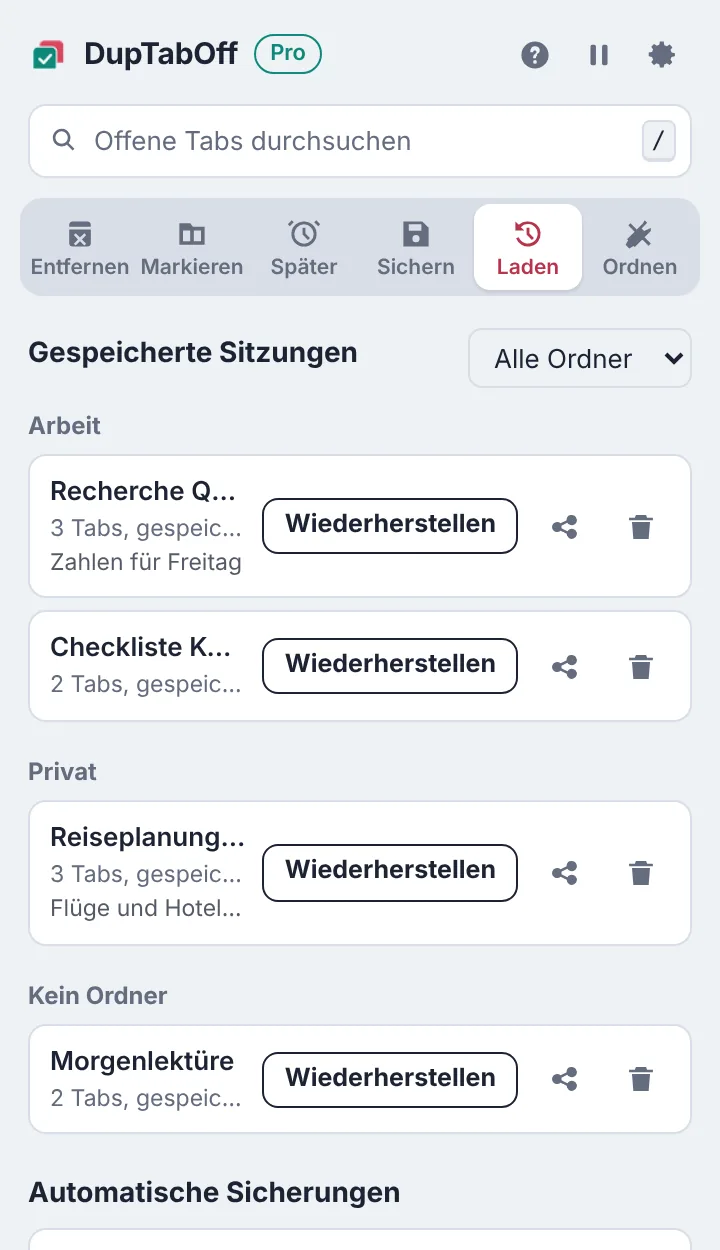
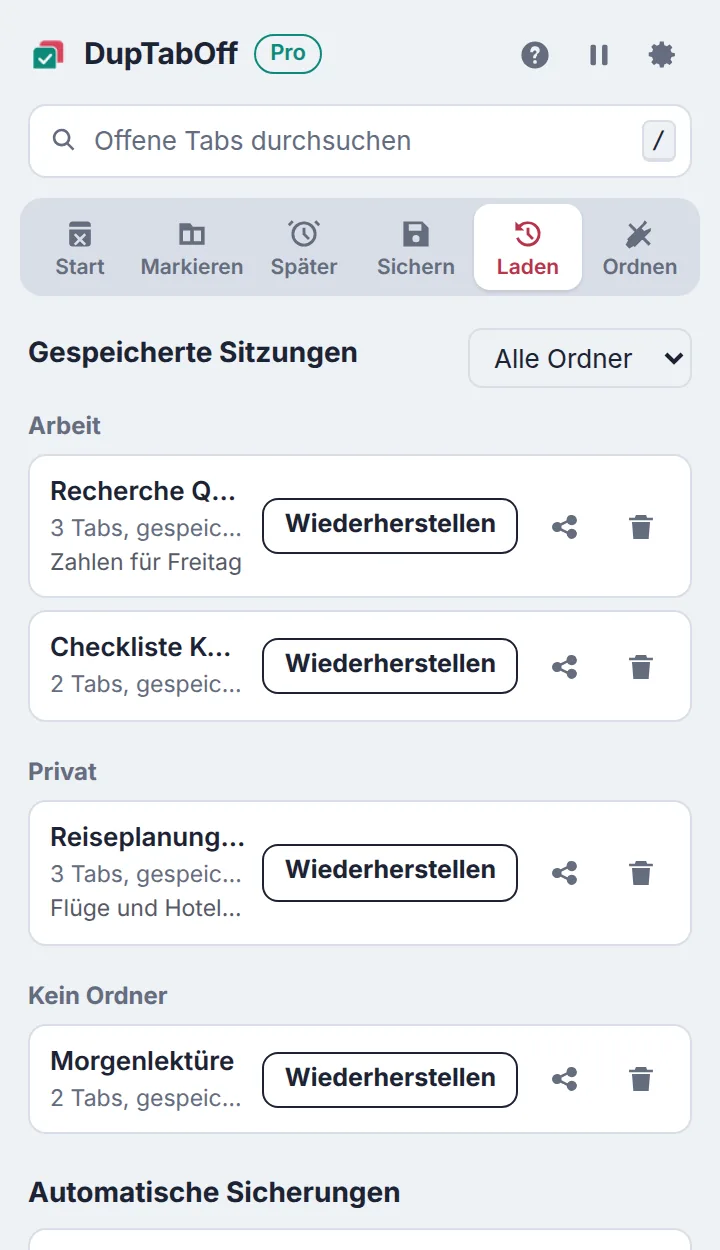
DupTabOff screenshots: the first tab is now called Home
What changed, in plain words:
DupTabOff's first popup option was renamed from "Remove" to "Home" (Start,
Accueil, Inicio, ホーム), so the screenshots on the site were retaken in
every language to match.

- assets/shots/ and assets/shots/<language>/: all 30 screenshots retaken.
  Same sizes, so sizes.json is unchanged.
- index.html, duptaboff/index.html and their de, fr, ja, es copies: rebuilt
  by build.py, so each picture's fingerprint (?v=...) changes and visitors'
  browsers fetch the new pictures.
- .page-dates.json, sitemap.xml: updated page dates from the rebuild.

diff --git a/ja/duptaboff/index.html b/ja/duptaboff/index.html
@@ -87,7 +87,7 @@
       <p>DupTabOff のアイコンの数字が、開いている重複タブの数を示します。ポップアップを開くと重複ページが一覧表示され、残るタブと閉じるタブがわかります。</p>
       <ul class="points"><li>http と https、www、末尾のスラッシュ、トラッキングコードの違いは同じページとして扱います</li><li>ページを右クリックして「このページの重複を削除」を選ぶこともできます</li><li>「元に戻す」で閉じたタブを復元 <span class="pro-tag">Pro</span></li></ul>
     </div>
-    <div class="shot-wrap"><img src="../../assets/shots/ja/light.webp?v=72d28928" width="720" height="1150" loading="lazy" alt="重複タブを表示した DupTabOff のポップアップ。4 回開いたページのうち 1 つが残り、3 つが閉じられる"></div>
+    <div class="shot-wrap"><img src="../../assets/shots/ja/light.webp?v=966129a4" width="720" height="1150" loading="lazy" alt="重複タブを表示した DupTabOff のポップアップ。4 回開いたページのうち 1 つが残り、3 つが閉じられる"></div>
   </section>
   <section class="feature flip">
     <div>
@@ -95,7 +95,7 @@
       <p>すでに開いているページへのリンクやブックマークをクリックすると、新しいタブを開く代わりにそのタブへ移動します。バックグラウンドで開いたリンクは静かに閉じるので、読んでいるページから引き離されることはありません。</p>
       <ul class="points"><li>ログイン画面、フォームの送信結果、意図して複製したタブには触れません</li><li>最近防いだページは「もう一度開く」ボタン付きで一覧表示されます</li></ul>
     </div>
-    <div class="shot-wrap"><img src="../../assets/shots/ja/guard.webp?v=daaa0466" width="720" height="1200" loading="lazy" alt="防止モードがオンになり、最近防いだ重複ページと「もう一度開く」ボタンが並ぶ画面"></div>
+    <div class="shot-wrap"><img src="../../assets/shots/ja/guard.webp?v=c1e87b05" width="720" height="1200" loading="lazy" alt="防止モードがオンになり、最近防いだ重複ページと「もう一度開く」ボタンが並ぶ画面"></div>
   </section>
   <section class="feature">
     <div>
@@ -103,7 +103,7 @@
       <p>ポップアップで / を押して入力を始めると、すべてのウィンドウから一致するタブが表示され、Enter キーですぐに移動できます。無料版でも使えます。</p>
       
     </div>
-    <div class="shot-wrap"><img src="../../assets/shots/ja/search.webp?v=d144d46a" width="720" height="820" loading="lazy" alt="ポップアップ内の検索で、すべてのウィンドウから一致するタブが一覧表示されている"></div>
+    <div class="shot-wrap"><img src="../../assets/shots/ja/search.webp?v=92c6f86b" width="720" height="820" loading="lazy" alt="ポップアップ内の検索で、すべてのウィンドウから一致するタブが一覧表示されている"></div>
   </section>
   <section class="feature flip">
     <div>
@@ -111,7 +111,7 @@
       <p>いまタブを閉じて、今日このあと、今夜、明日の朝、来週の月曜、または好きな時刻に自動で戻せます。その時刻に Chrome が閉じていれば、次に開いたときに戻ってきます。</p>
       
     </div>
-    <div class="shot-wrap"><img src="../../assets/shots/ja/snooze.webp?v=f75deedc" width="720" height="1248" loading="lazy" alt="今日このあと・今夜・明日の朝・来週の月曜を選べるスヌーズ画面と、スヌーズ中の 2 つのタブ"></div>
+    <div class="shot-wrap"><img src="../../assets/shots/ja/snooze.webp?v=a9c2f517" width="720" height="1248" loading="lazy" alt="今日このあと・今夜・明日の朝・来週の月曜を選べるスヌーズ画面と、スヌーズ中の 2 つのタブ"></div>
   </section>
   <section class="feature">
     <div>
@@ -119,7 +119,7 @@
       <p>開いているタブに名前を付けてセッションとして保存し、フォルダに整理してメモを付けられます。ワンクリックで開き直すと、固定タブやタブグループも元どおり。30 分ごとの自動バックアップでクラッシュにも備えます。</p>
       <ul class="points"><li>セッションをシンプルなリンク集のページとして共有し、誰にでも送れます</li><li>整理ツール：使っていないタブを閉じる、サイトごと閉じる、ウィンドウを統合する、サイト順に並べ替える</li></ul>
     </div>
-    <div class="shot-wrap"><img src="../../assets/shots/ja/restore.webp?v=5643a754" width="720" height="1250" loading="lazy" alt="フォルダごとに整理された保存済みセッションと、「復元」「共有」ボタン"></div>
+    <div class="shot-wrap"><img src="../../assets/shots/ja/restore.webp?v=3ab0fe39" width="720" height="1250" loading="lazy" alt="フォルダごとに整理された保存済みセッションと、「復元」「共有」ボタン"></div>
   </section>
 
   <section class="promise">

diff --git a/fr/duptaboff/index.html b/fr/duptaboff/index.html
@@ -87,7 +87,7 @@
       <p>Le chiffre sur l’icône DupTabOff indique combien de doublons sont ouverts. Ouvrez la fenêtre : chaque page en double est listée, avec la copie conservée et celles qui seront fermées.</p>
       <ul class="points"><li>Considère http et https, www, les barres obliques finales et les codes de suivi comme une même page</li><li>Clic droit sur n’importe quelle page, puis « Supprimer les doublons de cette page »</li><li>Annuler rouvre les onglets que vous venez de fermer <span class="pro-tag">Pro</span></li></ul>
     </div>
-    <div class="shot-wrap"><img src="../../assets/shots/fr/light.webp?v=f86af3d0" width="720" height="1150" loading="lazy" alt="Fenêtre DupTabOff avec des onglets en double : une page ouverte quatre fois, une copie conservée, trois fermées"></div>
+    <div class="shot-wrap"><img src="../../assets/shots/fr/light.webp?v=ef8785ff" width="720" height="1150" loading="lazy" alt="Fenêtre DupTabOff avec des onglets en double : une page ouverte quatre fois, une copie conservée, trois fermées"></div>
   </section>
   <section class="feature flip">
     <div>
@@ -95,7 +95,7 @@
       <p>Cliquez sur un lien ou un favori vers une page déjà ouverte : DupTabOff vous amène sur cet onglet au lieu d’en ouvrir une nouvelle copie. Les liens ouverts en arrière-plan sont fermés discrètement, pour ne jamais vous détourner de votre lecture.</p>
       <ul class="points"><li>Ne touche jamais aux fenêtres de connexion, aux résultats de formulaires ni aux onglets dupliqués volontairement</li><li>Les pages bloquées récemment sont listées avec un bouton Rouvrir</li></ul>
     </div>
-    <div class="shot-wrap"><img src="../../assets/shots/fr/guard.webp?v=3254b33b" width="720" height="1200" loading="lazy" alt="Mode prévention activé, avec la liste des doublons bloqués récemment et des boutons Rouvrir"></div>
+    <div class="shot-wrap"><img src="../../assets/shots/fr/guard.webp?v=76a66ddb" width="720" height="1200" loading="lazy" alt="Mode prévention activé, avec la liste des doublons bloqués récemment et des boutons Rouvrir"></div>
   </section>
   <section class="feature">
     <div>
@@ -103,7 +103,7 @@
       <p>Appuyez sur / dans la fenêtre et commencez à taper. Les onglets correspondants de toutes les fenêtres apparaissent au fil de la saisie, et Entrée vous y emmène directement. Gratuit pour tous.</p>
       
     </div>
-    <div class="shot-wrap"><img src="../../assets/shots/fr/search.webp?v=bd9c8b5d" width="720" height="820" loading="lazy" alt="Une recherche dans la fenêtre liste les onglets correspondants dans toutes les fenêtres"></div>
+    <div class="shot-wrap"><img src="../../assets/shots/fr/search.webp?v=fc7923a9" width="720" height="820" loading="lazy" alt="Une recherche dans la fenêtre liste les onglets correspondants dans toutes les fenêtres"></div>
   </section>
   <section class="feature flip">
     <div>
@@ -111,7 +111,7 @@
       <p>Fermez un onglet maintenant et laissez-le revenir tout seul plus tard aujourd’hui, ce soir, demain matin, lundi prochain ou au moment de votre choix. Si Chrome est fermé à ce moment-là, il revient à la prochaine ouverture.</p>
       
     </div>
-    <div class="shot-wrap"><img src="../../assets/shots/fr/snooze.webp?v=980c30a0" width="720" height="1248" loading="lazy" alt="Écran de mise en veille avec plus tard aujourd’hui, ce soir, demain matin et lundi prochain, et deux onglets en veille"></div>
+    <div class="shot-wrap"><img src="../../assets/shots/fr/snooze.webp?v=32f585a6" width="720" height="1248" loading="lazy" alt="Écran de mise en veille avec plus tard aujourd’hui, ce soir, demain matin et lundi prochain, et deux onglets en veille"></div>
   </section>
   <section class="feature">
     <div>
@@ -119,7 +119,7 @@
       <p>Enregistrez vos onglets ouverts sous un nom, rangez-les dans un dossier, ajoutez une note et rouvrez-les en un clic, avec les onglets épinglés et les groupes d’onglets à leur place. Des sauvegardes automatiques toutes les 30 minutes vous protègent des plantages.</p>
       <ul class="points"><li>Partagez une session sous forme de simple page de liens, à envoyer à qui vous voulez</li><li>Outils de rangement : fermer les onglets inutilisés, fermer tout un site, fusionner les fenêtres, trier par site</li></ul>
     </div>
-    <div class="shot-wrap"><img src="../../assets/shots/fr/restore.webp?v=a8b7892c" width="720" height="1250" loading="lazy" alt="Sessions enregistrées classées en dossiers, avec les boutons Restaurer et Partager"></div>
+    <div class="shot-wrap"><img src="../../assets/shots/fr/restore.webp?v=f73ae496" width="720" height="1250" loading="lazy" alt="Sessions enregistrées classées en dossiers, avec les boutons Restaurer et Partager"></div>
   </section>
 
   <section class="promise">

diff --git a/es/duptaboff/index.html b/es/duptaboff/index.html
@@ -87,7 +87,7 @@
       <p>El número en el icono de DupTabOff te dice cuántos duplicados hay abiertos. Abre la ventana y verás cada página duplicada, con la copia que se queda y las que se cierran.</p>
       <ul class="points"><li>Trata http y https, www, las barras finales y los códigos de seguimiento como la misma página</li><li>Haz clic derecho en cualquier página y elige «Eliminar duplicados de esta página»</li><li>Deshacer recupera las pestañas que acabas de cerrar <span class="pro-tag">Pro</span></li></ul>
     </div>
-    <div class="shot-wrap"><img src="../../assets/shots/es/light.webp?v=3480fce4" width="720" height="1150" loading="lazy" alt="Ventana de DupTabOff con pestañas duplicadas: una página abierta cuatro veces, una copia se queda y tres se cierran"></div>
+    <div class="shot-wrap"><img src="../../assets/shots/es/light.webp?v=07a19ff7" width="720" height="1150" loading="lazy" alt="Ventana de DupTabOff con pestañas duplicadas: una página abierta cuatro veces, una copia se queda y tres se cierran"></div>
   </section>
   <section class="feature flip">
     <div>
@@ -95,7 +95,7 @@
       <p>Haz clic en un enlace o marcador a una página que ya tienes abierta y DupTabOff te lleva a esa pestaña en lugar de abrir otra copia. Los enlaces que abres en segundo plano se cierran discretamente, para que nunca te saquen de lo que estás leyendo.</p>
       <ul class="points"><li>Nunca toca ventanas de inicio de sesión, resultados de formularios ni pestañas duplicadas a propósito</li><li>Las páginas evitadas recientemente aparecen con un botón para volver a abrirlas</li></ul>
     </div>
-    <div class="shot-wrap"><img src="../../assets/shots/es/guard.webp?v=8caeeb78" width="720" height="1200" loading="lazy" alt="Modo de prevención activado, con una lista de duplicados evitados recientemente y botones para volver a abrirlos"></div>
+    <div class="shot-wrap"><img src="../../assets/shots/es/guard.webp?v=9db2a994" width="720" height="1200" loading="lazy" alt="Modo de prevención activado, con una lista de duplicados evitados recientemente y botones para volver a abrirlos"></div>
   </section>
   <section class="feature">
     <div>
@@ -103,7 +103,7 @@
       <p>Pulsa / en la ventana y empieza a escribir. Las pestañas que coinciden, de todas las ventanas, aparecen mientras escribes, e Intro te lleva directamente. Gratis para todos.</p>
       
     </div>
-    <div class="shot-wrap"><img src="../../assets/shots/es/search.webp?v=3be7e30c" width="720" height="820" loading="lazy" alt="Una búsqueda en la ventana muestra las pestañas que coinciden en todas las ventanas"></div>
+    <div class="shot-wrap"><img src="../../assets/shots/es/search.webp?v=72f65d66" width="720" height="820" loading="lazy" alt="Una búsqueda en la ventana muestra las pestañas que coinciden en todas las ventanas"></div>
   </section>
   <section class="feature flip">
     <div>
@@ -111,7 +111,7 @@
       <p>Cierra una pestaña ahora y haz que vuelva sola más tarde hoy, esta noche, mañana por la mañana, el próximo lunes o cuando tú elijas. Si Chrome está cerrado en ese momento, vuelve la próxima vez que lo abras.</p>
       
     </div>
-    <div class="shot-wrap"><img src="../../assets/shots/es/snooze.webp?v=b4f195eb" width="720" height="1286" loading="lazy" alt="Pantalla para posponer con más tarde hoy, esta noche, mañana por la mañana y el próximo lunes, y dos pestañas pospuestas"></div>
+    <div class="shot-wrap"><img src="../../assets/shots/es/snooze.webp?v=ff93bf62" width="720" height="1286" loading="lazy" alt="Pantalla para posponer con más tarde hoy, esta noche, mañana por la mañana y el próximo lunes, y dos pestañas pospuestas"></div>
   </section>
   <section class="feature">
     <div>
@@ -119,7 +119,7 @@
       <p>Guarda tus pestañas abiertas como una sesión con nombre, archívala en una carpeta, añade una nota y vuelve a abrirla con un clic, con las pestañas fijadas y los grupos de pestañas en su sitio. Las copias de seguridad automáticas cada 30 minutos te protegen de los fallos.</p>
       <ul class="points"><li>Comparte una sesión como una sencilla página de enlaces que puedes enviar a cualquiera</li><li>Herramientas de limpieza: cerrar pestañas sin usar, cerrar un sitio entero, unir ventanas, ordenar por sitio</li></ul>
     </div>
-    <div class="shot-wrap"><img src="../../assets/shots/es/restore.webp?v=6be6477b" width="720" height="1250" loading="lazy" alt="Sesiones guardadas organizadas en carpetas, con botones para restaurar y compartir"></div>
+    <div class="shot-wrap"><img src="../../assets/shots/es/restore.webp?v=1c6fb6d7" width="720" height="1250" loading="lazy" alt="Sesiones guardadas organizadas en carpetas, con botones para restaurar y compartir"></div>
   </section>
 
   <section class="promise">

diff --git a/de/duptaboff/index.html b/de/duptaboff/index.html
@@ -87,7 +87,7 @@
       <p>Die Zahl am DupTabOff-Symbol zeigt, wie viele Duplikate offen sind. Im Fenster wird jede doppelte Seite aufgelistet, mit der Kopie, die bleibt, und den Kopien, die geschlossen werden.</p>
       <ul class="points"><li>Behandelt http und https, www, Schrägstriche am Ende und Tracking-Codes als dieselbe Seite</li><li>Rechtsklick auf eine Seite und „Duplikate dieser Seite entfernen“ wählen</li><li>Rückgängig holt die gerade geschlossenen Tabs zurück <span class="pro-tag">Pro</span></li></ul>
     </div>
-    <div class="shot-wrap"><img src="../../assets/shots/de/light.webp?v=635fae55" width="720" height="1150" loading="lazy" alt="DupTabOff-Fenster mit doppelten Tabs: eine Seite ist viermal geöffnet, eine Kopie bleibt, drei werden geschlossen"></div>
+    <div class="shot-wrap"><img src="../../assets/shots/de/light.webp?v=6ee163e5" width="720" height="1150" loading="lazy" alt="DupTabOff-Fenster mit doppelten Tabs: eine Seite ist viermal geöffnet, eine Kopie bleibt, drei werden geschlossen"></div>
   </section>
   <section class="feature flip">
     <div>
@@ -95,7 +95,7 @@
       <p>Klicken Sie auf einen Link oder ein Lesezeichen zu einer bereits geöffneten Seite, bringt DupTabOff Sie zu diesem Tab, statt eine weitere Kopie zu öffnen. Im Hintergrund geöffnete Links werden still geschlossen – Sie werden nie aus dem gerissen, was Sie gerade lesen.</p>
       <ul class="points"><li>Lässt Anmeldefenster, Formularergebnisse und bewusst duplizierte Tabs immer in Ruhe</li><li>Zuletzt verhinderte Seiten werden mit einer Schaltfläche „Erneut öffnen“ aufgelistet</li></ul>
     </div>
-    <div class="shot-wrap"><img src="../../assets/shots/de/guard.webp?v=29154a2a" width="720" height="1200" loading="lazy" alt="Vorbeugemodus eingeschaltet, mit einer Liste zuletzt verhinderter Duplikate und Schaltflächen zum erneuten Öffnen"></div>
+    <div class="shot-wrap"><img src="../../assets/shots/de/guard.webp?v=4b634f2f" width="720" height="1200" loading="lazy" alt="Vorbeugemodus eingeschaltet, mit einer Liste zuletzt verhinderter Duplikate und Schaltflächen zum erneuten Öffnen"></div>
   </section>
   <section class="feature">
     <div>
@@ -103,7 +103,7 @@
       <p>Drücken Sie im Fenster / und tippen Sie los. Passende Tabs aus allen Fenstern erscheinen beim Tippen, und die Eingabetaste bringt Sie direkt dorthin. Kostenlos für alle.</p>
       
     </div>
-    <div class="shot-wrap"><img src="../../assets/shots/de/search.webp?v=5c74b9c6" width="720" height="820" loading="lazy" alt="Eine Suche im Fenster listet passende Tabs aus allen Fenstern auf"></div>
+    <div class="shot-wrap"><img src="../../assets/shots/de/search.webp?v=be37fa51" width="720" height="820" loading="lazy" alt="Eine Suche im Fenster listet passende Tabs aus allen Fenstern auf"></div>
   </section>
   <section class="feature flip">
     <div>
@@ -111,7 +111,7 @@
       <p>Schließen Sie einen Tab jetzt und lassen Sie ihn von selbst zurückkommen: später heute, heute Abend, morgen früh, nächsten Montag oder zu einer Zeit Ihrer Wahl. Ist Chrome dann geschlossen, kommt er beim nächsten Start zurück.</p>
       
     </div>
-    <div class="shot-wrap"><img src="../../assets/shots/de/snooze.webp?v=3f91eacd" width="720" height="1248" loading="lazy" alt="Schlummer-Ansicht mit später heute, heute Abend, morgen früh und nächsten Montag sowie zwei schlummernden Tabs"></div>
+    <div class="shot-wrap"><img src="../../assets/shots/de/snooze.webp?v=89632759" width="720" height="1248" loading="lazy" alt="Schlummer-Ansicht mit später heute, heute Abend, morgen früh und nächsten Montag sowie zwei schlummernden Tabs"></div>
   </section>
   <section class="feature">
     <div>
@@ -119,7 +119,7 @@
       <p>Speichern Sie Ihre offenen Tabs als benannte Sitzung, legen Sie sie in einem Ordner ab, fügen Sie eine Notiz hinzu und öffnen Sie sie mit einem Klick wieder – mit angehefteten Tabs und Tab-Gruppen an ihrem Platz. Automatische Sicherungen alle 30 Minuten schützen vor Abstürzen.</p>
       <ul class="points"><li>Eine Sitzung als einfache Linkseite teilen, die Sie jedem schicken können</li><li>Aufräum-Werkzeuge: ungenutzte Tabs schließen, eine ganze Website schließen, Fenster zusammenführen, nach Website sortieren</li></ul>
     </div>
-    <div class="shot-wrap"><img src="../../assets/shots/de/restore.webp?v=794455a2" width="720" height="1250" loading="lazy" alt="Gespeicherte Sitzungen in Ordnern, mit Schaltflächen zum Wiederherstellen und Teilen"></div>
+    <div class="shot-wrap"><img src="../../assets/shots/de/restore.webp?v=db6692f1" width="720" height="1250" loading="lazy" alt="Gespeicherte Sitzungen in Ordnern, mit Schaltflächen zum Wiederherstellen und Teilen"></div>
   </section>
 
   <section class="promise">

diff --git a/duptaboff/index.html b/duptaboff/index.html
@@ -87,7 +87,7 @@
       <p>The number on the DupTabOff icon tells you how many duplicates are open. Open the popup and each duplicated page is listed, with the copy that stays and the copies that close.</p>
       <ul class="points"><li>Treats http and https, www, trailing slashes and tracking codes as the same page</li><li>Right-click any page and choose "Remove duplicates of this page"</li><li>Undo brings back the tabs you just removed <span class="pro-tag">Pro</span></li></ul>
     </div>
-    <div class="shot-wrap"><img src="../assets/shots/light.webp?v=dbc4ffb3" width="720" height="1150" loading="lazy" alt="DupTabOff popup showing duplicate tabs, with one page open four times: one copy stays, three close"></div>
+    <div class="shot-wrap"><img src="../assets/shots/light.webp?v=2638af88" width="720" height="1150" loading="lazy" alt="DupTabOff popup showing duplicate tabs, with one page open four times: one copy stays, three close"></div>
   </section>
   <section class="feature flip">
     <div>
@@ -95,7 +95,7 @@
       <p>Click a link or bookmark to a page you already have open, and DupTabOff takes you to that tab instead of opening another copy. Links you open in the background close quietly, so you're never pulled away from what you're reading.</p>
       <ul class="points"><li>Never touches sign-in windows, form results or tabs you duplicated on purpose</li><li>Recently stopped pages are listed with a Reopen button</li></ul>
     </div>
-    <div class="shot-wrap"><img src="../assets/shots/guard.webp?v=cdc6b213" width="720" height="1200" loading="lazy" alt="Prevention mode switched on, with a list of recently stopped duplicate pages and Reopen buttons"></div>
+    <div class="shot-wrap"><img src="../assets/shots/guard.webp?v=82a917c5" width="720" height="1200" loading="lazy" alt="Prevention mode switched on, with a list of recently stopped duplicate pages and Reopen buttons"></div>
   </section>
   <section class="feature">
     <div>
@@ -103,7 +103,7 @@
       <p>Press / in the popup and start typing. Matching tabs from every window appear as you type, and Enter takes you straight there. Free for everyone.</p>
       
     </div>
-    <div class="shot-wrap"><img src="../assets/shots/search.webp?v=26a7a387" width="720" height="820" loading="lazy" alt="A search in the popup listing matching tabs across windows"></div>
+    <div class="shot-wrap"><img src="../assets/shots/search.webp?v=e46c73ba" width="720" height="820" loading="lazy" alt="A search in the popup listing matching tabs across windows"></div>
   </section>
   <section class="feature flip">
     <div>
@@ -111,7 +111,7 @@
       <p>Close a tab now and have it come back by itself later today, this evening, tomorrow morning, next Monday or any time you pick. If Chrome is closed then, it comes back the next time you open it.</p>
       
     </div>
-    <div class="shot-wrap"><img src="../assets/shots/snooze.webp?v=d128762d" width="720" height="1248" loading="lazy" alt="Snooze screen with later today, this evening, tomorrow morning and next Monday, and two snoozed tabs"></div>
+    <div class="shot-wrap"><img src="../assets/shots/snooze.webp?v=dbe9d0c1" width="720" height="1248" loading="lazy" alt="Snooze screen with later today, this evening, tomorrow morning and next Monday, and two snoozed tabs"></div>
   </section>
   <section class="feature">
     <div>
@@ -119,7 +119,7 @@
       <p>Save your open tabs as a named session, file it in a folder, add a note, and reopen it in one click with pinned tabs and tab groups back in place. Automatic backups every 30 minutes protect you from crashes.</p>
       <ul class="points"><li>Share a session as a simple page of links you can send to anyone</li><li>Clean-up tools: close unused tabs, close a whole site, merge windows, sort by site</li></ul>
     </div>
-    <div class="shot-wrap"><img src="../assets/shots/restore.webp?v=12973919" width="720" height="1250" loading="lazy" alt="Saved sessions grouped into folders, with Restore and Share buttons"></div>
+    <div class="shot-wrap"><img src="../assets/shots/restore.webp?v=c6cda379" width="720" height="1250" loading="lazy" alt="Saved sessions grouped into folders, with Restore and Share buttons"></div>
   </section>
 
   <section class="promise">

diff --git a/ja/index.html b/ja/index.html
@@ -91,7 +91,7 @@
         <span class="fine">無料。Lifetime Pro は $4.99 の買い切り</span>
       </div>
     </div>
-    <img class="shot" src="../assets/shots/ja/light.webp?v=72d28928" width="720" height="1150" loading="lazy" alt="重複タブの一覧と、各ページでどのタブが残るかを表示した DupTabOff のポップアップ">
+    <img class="shot" src="../assets/shots/ja/light.webp?v=966129a4" width="720" height="1150" loading="lazy" alt="重複タブの一覧と、各ページでどのタブが残るかを表示した DupTabOff のポップアップ">
   </article>
   <p class="more">新しい製品を開発中です。次につくってほしいもののアイデアは <a href="mailto:support@purplewonton.com">support@purplewonton.com</a> までお寄せください。</p>
 </section>

diff --git a/fr/index.html b/fr/index.html
@@ -91,7 +91,7 @@
         <span class="fine">Gratuit, Lifetime Pro pour $4.99 en paiement unique</span>
       </div>
     </div>
-    <img class="shot" src="../assets/shots/fr/light.webp?v=f86af3d0" width="720" height="1150" loading="lazy" alt="La fenêtre DupTabOff liste les onglets en double et indique quelle copie de chaque page reste ouverte">
+    <img class="shot" src="../assets/shots/fr/light.webp?v=ef8785ff" width="720" height="1150" loading="lazy" alt="La fenêtre DupTabOff liste les onglets en double et indique quelle copie de chaque page reste ouverte">
   </article>
   <p class="more">D’autres produits sont en préparation. Vos idées pour la suite sont les bienvenues à <a href="mailto:support@purplewonton.com">support@purplewonton.com</a>.</p>
 </section>

diff --git a/es/index.html b/es/index.html
@@ -91,7 +91,7 @@
         <span class="fine">Gratis, con Lifetime Pro por $4.99 en un solo pago</span>
       </div>
     </div>
-    <img class="shot" src="../assets/shots/es/light.webp?v=3480fce4" width="720" height="1150" loading="lazy" alt="La ventana de DupTabOff muestra las pestañas duplicadas y qué copia de cada página se queda abierta">
+    <img class="shot" src="../assets/shots/es/light.webp?v=07a19ff7" width="720" height="1150" loading="lazy" alt="La ventana de DupTabOff muestra las pestañas duplicadas y qué copia de cada página se queda abierta">
   </article>
   <p class="more">Hay más productos en camino. Tus ideas sobre qué crear después son bienvenidas en <a href="mailto:support@purplewonton.com">support@purplewonton.com</a>.</p>
 </section>

diff --git a/de/index.html b/de/index.html
@@ -91,7 +91,7 @@
         <span class="fine">Kostenlos, Lifetime Pro für einmalig $4.99</span>
       </div>
     </div>
-    <img class="shot" src="../assets/shots/de/light.webp?v=635fae55" width="720" height="1150" loading="lazy" alt="Das DupTabOff-Fenster listet doppelte Tabs auf und zeigt, welche Kopie jeder Seite geöffnet bleibt">
+    <img class="shot" src="../assets/shots/de/light.webp?v=6ee163e5" width="720" height="1150" loading="lazy" alt="Das DupTabOff-Fenster listet doppelte Tabs auf und zeigt, welche Kopie jeder Seite geöffnet bleibt">
   </article>
   <p class="more">Weitere Produkte sind in Arbeit. Ideen, was wir als Nächstes bauen sollen, gerne an <a href="mailto:support@purplewonton.com">support@purplewonton.com</a>.</p>
 </section>

diff --git a/index.html b/index.html
@@ -91,7 +91,7 @@
         <span class="fine">Free, with Lifetime Pro for $4.99 once</span>
       </div>
     </div>
-    <img class="shot" src="assets/shots/light.webp?v=dbc4ffb3" width="720" height="1150" loading="lazy" alt="The DupTabOff popup listing duplicate tabs and which copy of each page stays open">
+    <img class="shot" src="assets/shots/light.webp?v=2638af88" width="720" height="1150" loading="lazy" alt="The DupTabOff popup listing duplicate tabs and which copy of each page stays open">
   </article>
   <p class="more">More products are in the works. Ideas for what we should build next are welcome at <a href="mailto:support@purplewonton.com">support@purplewonton.com</a>.</p>
 </section>
